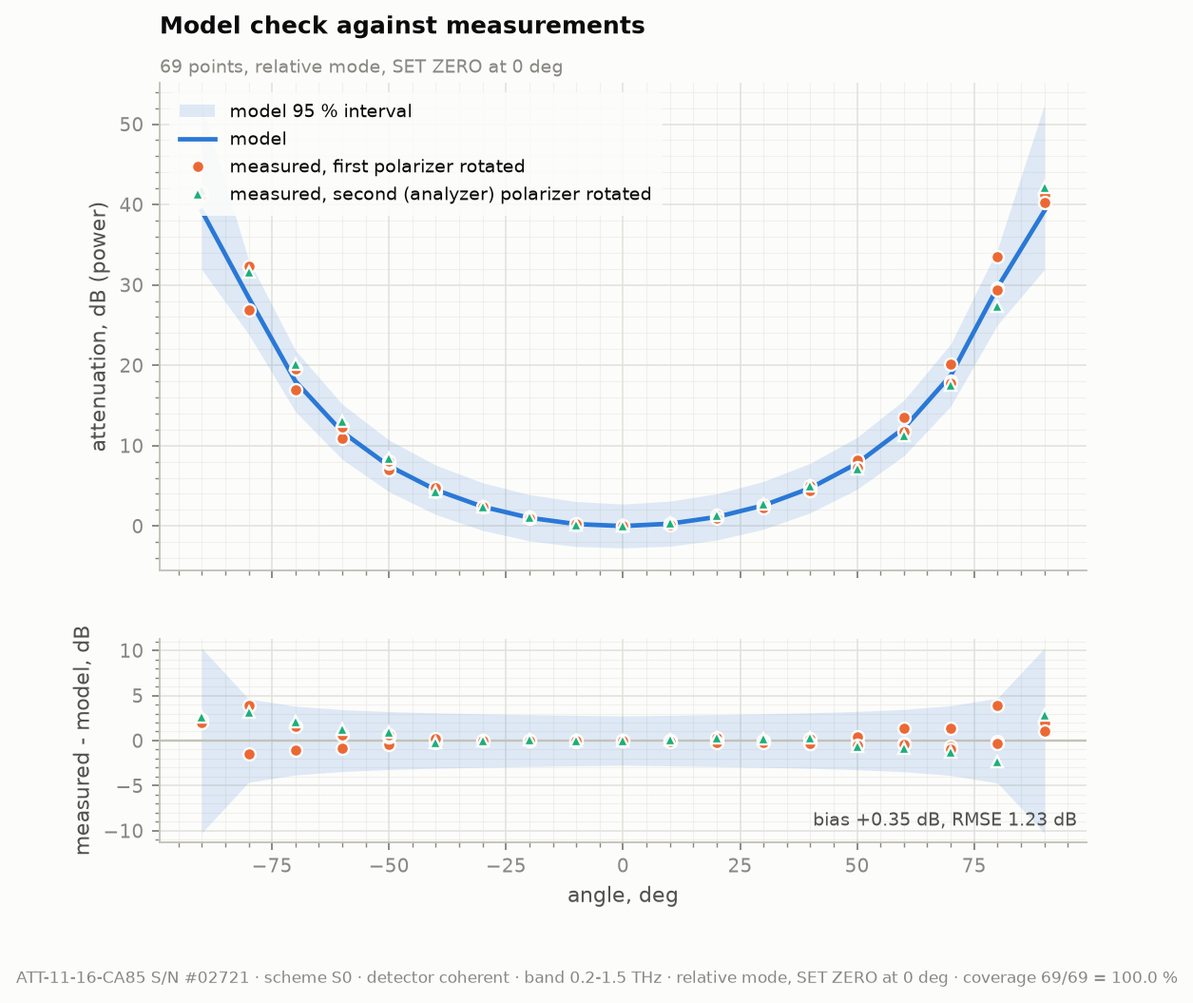
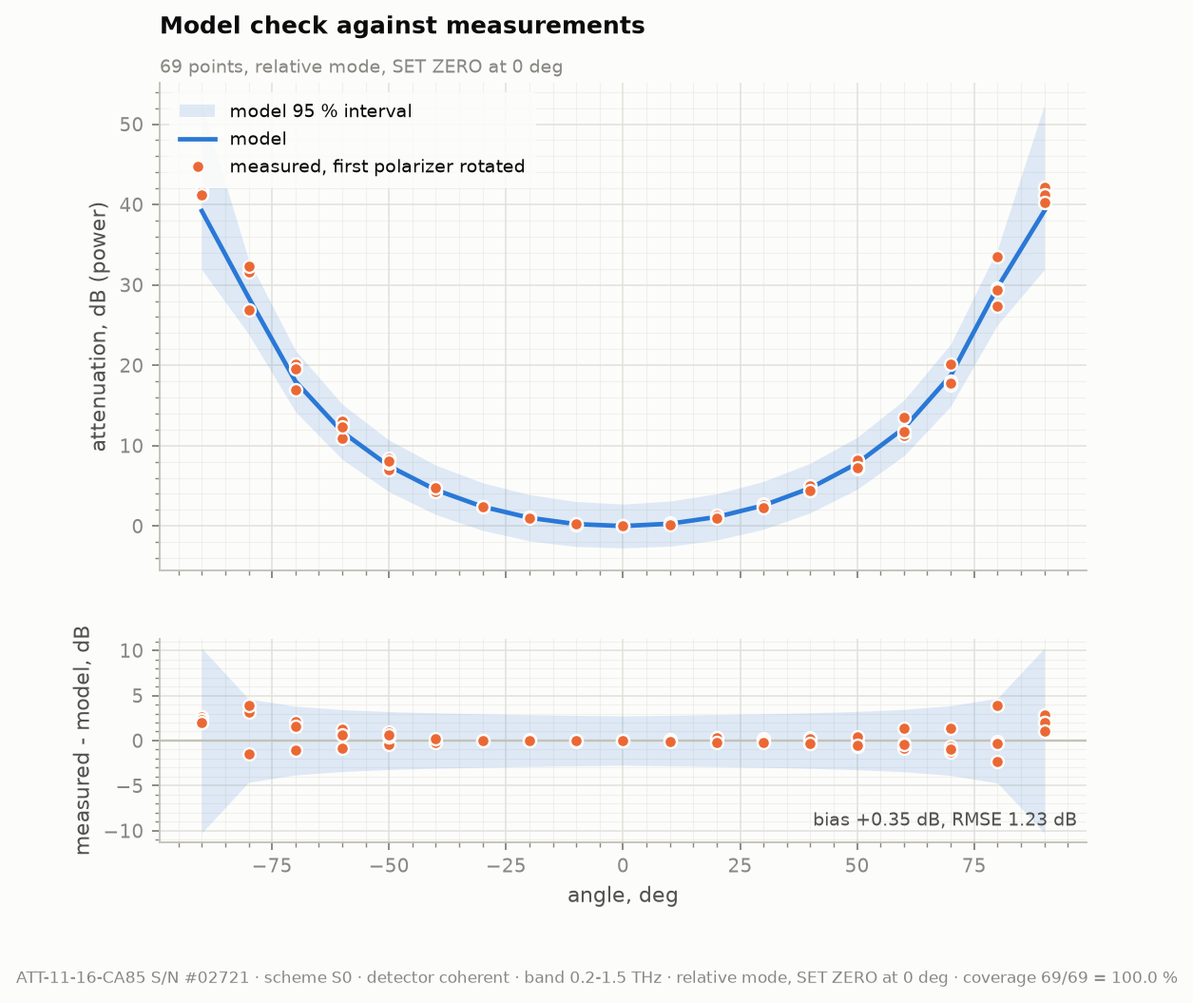
[C] Закрытие чата C1: передача роли + починка валидатора после переименования данных
Валидатор зоны C был сломан с 2026-08-04 и молчал об этом. Переименование
356att/series* -> att-11-16-* (коммит eda293e) прошло по словарю ROTATES внутри
tools/validate.py, но не по умолчанию --datasets и не по префиксам групп: скрипт
искал файлы по старым именам, находил ноль, печатал "no data for validation" и
выходил с кодом 0 - внешне неотличимо от успеха. Это второй случай той же формы
подряд (первый - реорганизация data_pool в подкаталоги 28.07, glob -> rglob).

После починки числа воспроизвелись бит-в-бит, то есть переименование физику не
затронуло и запрос A "C: прошу прогнать свой валидатор" закрыт:
  selftest 13/13
  validate 69/69 = 100 % покрытия 95 % интервала
           смещение +0.35 дБ, RMSE 1.23 дБ (паспортная 1.39)
           вращался второй +0.46 / первый +0.31 -> разница +0.15 дБ (закон Малюса)
           запас интервала x1.67

Защита от повторения: случай "файлов не найдено вообще" отделён от "мало углов" и
печатается явно, main() возвращает код 1.

Win7-комплект и распечатанный чек-лист ред.2 намеренно НЕ синхронизированы - они
согласованы между собой на старых именах и ждут приёмки владельцем; в чек-лист
внесено предупреждение об этом расхождении.

Передача роли - attenuator_app/HANDOFF_C_20260807.md. Открыта одна задача,
C6_v02_acceptance, и она ждёт владельца (release gate: ни одна версия не выпущена).

Session: C
Reason: штатное закрытие чата C1 с передачей дел; попутно устранён тихий отказ
[…]

Changed region(s): [[0.1554, 0.182, 0.5594, 0.2123], [0.8701, 0.6976, 0.9012, 0.728], [0.8701, 0.182, 0.9012, 0.2123]]

diff --git a/attenuator_app/tools/validate.py b/attenuator_app/tools/validate.py
@@ -9,16 +9,17 @@
 где U = интеграл |E(nu)|^2 по рабочей полосе (Парсеваль). Деление на фон снимает
 дрейф лазера между точками — иначе он маскирует проверку.
 
-Данные: один и тот же прибор, шесть сеансов.
-    356att      — вращался ВТОРОЙ поляризатор (ближний к детектору, анализатор)
-    series1..5  — вращался ПЕРВЫЙ поляризатор
+Данные: один и тот же прибор, шесть сеансов (имена с 2026-08-04, переименование A).
+    att-11-16-356       — вращался ВТОРОЙ поляризатор (ближний к детектору, анализатор)
+    att-11-16-s1..s3    — вращался ПЕРВЫЙ поляризатор
+    att-11-16-s4/s5-artifact — по одному углу, пропускаются
 По закону Малюса затухание зависит только от относительного угла, поэтому оба
 набора должны ложиться на одну кривую. Расхождение между группами — прямая
 проверка этого утверждения на железе.
 
 Запуск:
     .venv\\Scripts\\python.exe -m attenuator_app.tools.validate
-    ... --passport <файл> --band 0.2 1.5 --datasets 356att,series1
+    ... --passport <файл> --band 0.2 1.5 --datasets att-11-16-356,att-11-16-s1
 """
 from __future__ import annotations
 
@@ -91,8 +92,16 @@ def run(passport_path, band, datasets, verbose=True):
     rows, tot_in, tot_n = [], 0, 0
     for ds in datasets:
         meas = measured(ds, f1, f2)
+        if not meas:
+            # отдельная ветка: ноль НАЙДЕННЫХ файлов — это почти всегда переименование или
+            # перенос data_pool чужой сессией, а не свойство данных. Раньше этот случай
+            # сливался с «мало углов» и читался как безобидный пропуск
+            print(f"  {ds}: NO FILES FOUND under {DATA} "
+                  f"(pattern {ds}_*deg_rep*_sig.txt) -- renamed or moved?")
+            continue
         if 0.0 not in meas or len(meas) < 3:
-            print(f"  {ds}: skipped (no 0 deg reference point or too few angles)")
+            print(f"  {ds}: skipped ({len(meas)} angles found, but no 0 deg reference point "
+                  f"or too few angles)")
             continue
         ref = meas[0.0]
         angles = sorted(meas)
@@ -130,7 +139,8 @@ def run(passport_path, band, datasets, verbose=True):
 
     # разбивка по тому, какой поляризатор вращался — проверка закона Малюса на железе
     groups = {}
-    for grp, name in (("att-11-16-356", "second (analyzer)"), ("series", "first")):
+    # префиксы disjoint: "att-11-16-356" vs "att-11-16-s1..s5" (после переименования 2026-08-04)
+    for grp, name in (("att-11-16-356", "second (analyzer)"), ("att-11-16-s", "first")):
         sel = [r for r in rows if r[0].startswith(grp)]
         if not sel:
             continue
@@ -140,7 +150,7 @@ def run(passport_path, band, datasets, verbose=True):
         print(f"  {name:<20} rotated: {n_in_g}/{len(sel)} = {100*n_in_g/len(sel):3.0f} %, "
               f"bias {d.mean():+.2f} dB, RMSE {np.sqrt((d**2).mean()):.2f} dB")
     if len(groups) == 2:
-        a, b = groups["att-11-16-356"], groups["series"]
+        a, b = groups["att-11-16-356"], groups["att-11-16-s"]
         print(f"  -> bias difference between groups {a.mean()-b.mean():+.2f} dB "
               f"(Malus law: attenuation must not depend on "
               f"which polarizer is rotated)")
@@ -180,10 +190,13 @@ def main():
     ap.add_argument("--passport",
                     default=str(HERE.parent / "passports" / "ATT-11-16-CA85_02721.json"))
     ap.add_argument("--band", nargs=2, type=float, default=[0.2, 1.5])
-    ap.add_argument("--datasets", default="356att,series1,series2,series3,series4,series5")
+    ap.add_argument("--datasets", default="att-11-16-356,att-11-16-s1,att-11-16-s2,"
+                                          "att-11-16-s3,att-11-16-s4-artifact,att-11-16-s5-artifact")
     ap.add_argument("--quiet", action="store_true")
     a = ap.parse_args()
-    run(a.passport, a.band, [d for d in a.datasets.split(",") if d], verbose=not a.quiet)
+    rows = run(a.passport, a.band, [d for d in a.datasets.split(",") if d], verbose=not a.quiet)
+    # код возврата обязателен: без него «нет данных» уходит с кодом 0 и выглядит как успех
+    sys.exit(1 if rows == 1 else 0)
 
 
 if __name__ == "__main__":

diff --git a/attenuator_app/HANDOFF_C_20260807.md b/attenuator_app/HANDOFF_C_20260807.md
@@ -1,0 +1,131 @@
+# Передача роли C — состояние на закрытие чата C1 (2026-08-07)
+
+Читать целиком перед первым действием. Чат `C1` (`f8241c1b-…`) закрыт владельцем; следующий чат
+под ролью C берёт ник **C2** (`coordination/NICKS.md`, правило 1). Оговорка реестра: работа C с
+2026-07-28 18:30 по 21:55 шла в **Cursor**, отдельным ником не регистрировалась и записана
+примечанием в строке C1 — поэтому следующий свободный номер именно C2, а не C3.
+
+Ниже — только то, что нельзя восстановить из кода и логов за разумное время. Полное состояние
+зоны — `attenuator_app/STATE.md`, документация — `docs/attenuator_app/` (8 файлов).
+
+---
+
+## 1. ⚠ ПЕРВОЕ: работа ЖДЁТ ВЛАДЕЛЬЦА — ничего не разрабатывать
+
+Действует **release gate** (указание владельца от 2026-07-28 18:51): ни одна версия не считается
+выпущенной и никому не передаётся, пока владелец лично ею не воспользовался и не дал явное добро.
+Автотесты — необходимое, но не достаточное условие.
+
+**Единственная открытая задача — `C6_v02_acceptance`:** прогон владельца по распечатанному
+чек-листу ред.2 на Win7-ПК у спектрометра и сбор обратной связи. До этого **не начинать** C3 (веб),
+C4 (драйверы ротаторов), C5 (`peak_field`) — иначе к неодобренной версии нарастёт слой изменений,
+и замечания владельца придётся вносить дважды.
+
+Прибор ATT-11-16-CA85 S/N #02721 **продан и уехал в Китай** — отсюда английский интерфейс
+(решение владельца, Win7-ПК не работает с кириллицей). Формулировку «приложение обслуживает
+проданный прибор» владелец снял как неверную: релизов не было.
+
+---
+
+## 2. ⚠ ВТОРОЕ: чужие переименования дважды ломали валидатор — и оба раза МОЛЧА
+
+Это главный урок зоны C, и он повторился.
+
+| Когда | Что сделала другая сессия | Как сломалось |
+|---|---|---|
+| 2026-07-28 | реорганизация `data_pool/` в подкаталоги (A/ORCH) | нерекурсивный `glob` нашёл 0 файлов → «нет данных» вместо падения. Исправлено на `rglob` |
+| 2026-08-04 | переименование `356att`/`series1..5` → `att-11-16-*` (A, коммит `eda293e`) | переименование прошло по `ROTATES`, но **не по умолчанию `--datasets`** и не по префиксам групп → снова 0 файлов, снова текст «no data for validation», **код возврата 0** |
+
+Второй случай пролежал незамеченным с 04 по 07 августа, хотя A прямо просила: «C: прошу прогнать
+свой валидатор» (`BOARD.md`, строка A). Просьба не была исполнена, потому что чат C в это время
+не работал.
+
+**Сегодня исправлено и проверено. Числа воспроизвелись бит-в-бит** — переименование не тронуло
+физику:
+
+```
+selftest   13/13
+validate   69/69 = 100 % покрытия 95 % интервала
+           смещение +0.35 дБ, RMSE 1.23 дБ (паспортная 1.39)
+           вращался второй +0.46 / первый +0.31 -> разница +0.15 дБ (закон Малюса)
+           запас интервала x1.67
+```
+
+⇒ **запрос A к C закрыт**: валидатор прогнан, расхождений нет.
+
+Заодно в `tools/validate.py` поставлена защита от тихого нуля: случай «файлов не найдено вообще»
+отделён от «мало углов» и печатается как `NO FILES FOUND … renamed or moved?`, а `main()` теперь
+**возвращает код 1** — раньше «нет данных» уходило с кодом 0 и в любом скрипте читалось как успех.
+
+> **Правило для C2, первое действие сессии:** прогнать `selftest` и `validate` и посмотреть на
+> **код возврата**, а не только на текст. Зона C зависит от расположения и имён файлов в
+> `data_pool/**`, который ей не принадлежит и меняется без предупреждения.
+
+---
+
+## 3. ⚠ ТРЕТЬЕ: Win7-комплект заморожен на СТАРЫХ именах — не синхронизировать
+
+`../win7_attenuator_kit` (вне репозитория, ~78 МБ) собран 2026-07-28, **до** переименования, и
+содержит собственные копии данных `356att_*`, свою копию `attenuator_app/` и чек-лист. Он
+**внутренне согласован** с распечатанной ред.2, которую владелец повезёт к спектрометру.
+
+Поэтому: **не приводить комплект к именам репозитория до приёмки.** Если комплект когда-нибудь
+пересобирается — пересобирать разом все три части: данные, код, чек-лист. В `07_ACCEPTANCE_
+CHECKLIST_v0.2.txt` рядом с шагом D.1 поставлено предупреждение об этом расхождении.
+
+---
+
+## 4. Техническое состояние на момент закрытия
+
+- **Ветка `session/C` полностью влита в `main`** (`713f807` — предок `main`, проверено
+  `git merge-base --is-ancestor`). Ничего не потеряно, мержить нечего.
+- **Worktree `../TUO-C` чист, но отстал от `main` на 57 коммитов.** Работать в нём, не обновив,
+  значит работать по данным и именам ДО переименования — то есть воспроизвести дефект из §2.
+  Перед работой либо обновить (`git -C ../TUO-C merge main`), либо снести worktree и работать
+  прямо на `main`: зона C с `main` не конфликтует, а изоляция ценой рассинхронизации данных
+  здесь дороже, чем даёт.
+- Рантайм приложения зависит **только от numpy**; `matplotlib` опционален (без него — ASCII).
+  Это сознательное решение: приложение должно запускаться у покупателя без научного стека.
+
+## 5. Два решения, которые нельзя потерять
+
+1. **Относительный режим — по умолчанию, и это физика, а не удобство.** При SET ZERO общий
+   множитель потерь `ℓ(ν)` и вносимое затухание `|t⊥|⁴` сокращаются тождественно (`|dA| = 1.8e-15`
+   дБ при изменении `loss`/`gamma`). Следствие: хуже всех определённый параметр `gamma` из
+   относительного режима **выпадает**, поэтому экстраполяция за полосу калибровки в нём на порядок
+   надёжнее абсолютного режима.
+2. **Неопределённость — по разбросу МЕЖДУ СЕАНСАМИ, а не по ковариации одного фита.** Разброс
+   между сеансами шире паспортного 95 % CI в 3–27 раз по всем трём подгоняемым параметрам.
+   Паспортный интервал получен на отфильтрованном по дрейфу ансамбле и оптимистичен для
+   повседневной работы, где прибор переставляют и заново юстируют. Валидация выбор подтвердила:
+   69/69 при запасе ×1.67.
+
+Обоснования и 6 допущений, требующих подтверждения владельцем, — `STATE.md`.
+
+## 6. Открытое
+
+**К владельцу** (`STATE.md` §«Открытые вопросы»): шаг/люфт ротаторов (до этого обратная задача не
+может быть «честной»); тип детектора по умолчанию для операторского сценария; разграничение
+A4 ↔ `attenuator_app/core`.
+
+**К Сессии A** — запрос в `HANDOFFS.md`, статус `open`: в репозитории **две независимые реализации**
+расчёта затухания (`research/two_wgp/` A4 и `attenuator_app/core/`). Предложено развести по
+назначению — A4 физический эталон, `core` продуктовый расчёт, — а задачу `C2` понимать как
+**сверку** двух калькуляторов, а не интеграцию. Порог тревоги: расхождение больше паспортной
+RMSE 1.39 дБ. Это приёмочная проверка для обеих сессий, а не зависимость: **C никогда не была
+заблокирована на A4**, вопреки записи «до готовности A4 запуск C преждевременен».
+
+**Косметические хвосты переименования** (не ломают работу, руки не дошли): старые имена сеансов
+остались в `passports/…json → calibration_note`, `docs/attenuator_app/03_OPTICAL_SCHEMES.md`,
+`06_ROADMAP_AND_LITERATURE.md`. Паспорт трогать осторожно — это калибровочный артефакт.
+
+**Долг вне зоны C** (не наш, только фиксируем): `research/papers/INDEX.md` не содержит
+`JOSA.67.000979.pdf` (Costley 1977) — 20 PDF, проиндексировано 19. Зона ORCH/L.
+
+## 7. Честно о ценности этого документа
+
+Уникального знания в закрываемом чате не осталось: всё, что C1 узнал, лежит на диске —
+`STATE.md`, `coordination/sessions/C.md`, записи в `ACTIVITY.md` и `HANDOFFS.md`, запись `[C]` в
+`research/logs/RESEARCH_LOG.md`, 8 документов `docs/attenuator_app/`. Этот файл — сводка входа,
+а не новые сведения. Единственное, что появилось именно сегодня, — §2: сломанный и починенный
+валидатор с воспроизведёнными числами.

diff --git a/coordination/sessions/C.md b/coordination/sessions/C.md
@@ -3,7 +3,8 @@
 > Обновляй при СТАРТЕ, смене задачи, «пульсе» и остановке. Перед правкой ОБЩЕГО файла — проверь
 > чужие sessions/*.md на пересечение. Устаревший heartbeat (>~1ч) = сессия считается неактивной.
 
-- **Статус:** idle (замок не держу)
+- **Статус:** stopped — чат **C1** закрыт владельцем 2026-08-07; лок свободен. Следующий чат под
+  ролью C берёт ник **C2**. **➜ ЧИТАТЬ ПЕРВЫМ: `attenuator_app/HANDOFF_C_20260807.md`**
 - **Специализация:** приложение-прототип attenuator_app (CHARTER §3 / OWNERSHIP.md)
 - **Текущая задача:** C6_v02_acceptance — ждём прогон владельца по гайду и обратную связь;
   release gate введён (ни одна версия не одобрена, релизов не было)
@@ -11,7 +12,9 @@
   `attenuator_app/STATE.md` (в worktree); читать `research/two_wgp/` — не править; физика/ядро → HANDOFFS к A/B
 - **Файлы, что трогаю (замок):** нет активного замка. Зона: `attenuator_app/**`, `docs/attenuator_app/**`
 - **Заявлено до (время):** —
-- **Heartbeat:** 2026-07-28 21:55 (UI переведён на английский — прибор в Китае, решение
+- **Heartbeat:** 2026-08-07 (закрытие чата C1; валидатор зоны C починен после переименования
+  данных A, числа воспроизведены бит-в-бит; передача дел записана)
+- **Предыдущий heartbeat:** 2026-07-28 21:55 (UI переведён на английский — прибор в Китае, решение
   владельца; коммит `713f807` в `session/C`; физика бит-в-бит; чек-лист ред.2 распечатан;
   Win7-комплект `../win7_attenuator_kit` пересобран с EN-интерфейсом и EN-README)
 
@@ -46,6 +49,16 @@
   69/69 = 100 %, RMSE 1.23 дБ); зона C закоммичена на main (`3e4cd24`) — C-часть флага ORCH снята;
   создан worktree `../TUO-C` (`session/C`), там же закоммичен обновлённый STATE.md (`2d84261`).
   **Для ORCH:** ветка `session/C` готова к мержу в любой момент; дальнейшие правки C — только в worktree.
+- [2026-08-07] **Закрытие чата C1, штатное освобождение лока.** Передача роли —
+  `attenuator_app/HANDOFF_C_20260807.md`. Итог последнего прохода: **валидатор зоны C был сломан
+  с 04.08 и молчал об этом.** Переименование данных Сессией A (`eda293e`) прошло по `ROTATES`
+  внутри `tools/validate.py`, но не по умолчанию `--datasets` и не по префиксам групп ⇒ 0 найденных
+  файлов, текст «no data for validation», код возврата 0. Починено; числа воспроизвелись бит-в-бит
+  (13/13; 69/69 = 100 %, +0.35 дБ, RMSE 1.23, разница групп +0.15 дБ, запас ×1.67) ⇒ **переименование
+  физику не затронуло, запрос A к C закрыт.** Добавлена защита: «файлов не найдено» отделено от
+  «мало углов», `main()` возвращает 1. Ветка `session/C` **полностью влита в main** (`713f807` —
+  предок main), worktree `../TUO-C` чист, но отстал на 57 коммитов — работать в нём без обновления
+  нельзя, иначе повторится тот же дефект. Задача C6 (приёмка v0.2 владельцем) не двигалась.
 - [2026-07-28 19:05] Указание владельца: релизов НЕ было, «в эксплуатации» — ошибка записи;
   введён release gate (флаги одобрения по версиям) — `session/C` коммит `4da44b3`, задача
   C6_v02_acceptance. Отревьюирован операторский гайд незарегистрированной сессии: команды/файлы

diff --git a/attenuator_app/README.md b/attenuator_app/README.md
@@ -31,7 +31,7 @@ att> solve 20               какой угол даёт 20 дБ
 att> check 20               проверки применимости F0..F8
 att> curve 10               угловая кривая рядом с идеальной cos^4
 att> spec 60                спектр + зоны + поляризация выхода
-att> bg data_pool/two_wgp_attenuator/356att_0deg_rep1_bg.txt   фон -> динамический диапазон
+att> bg data_pool/two_wgp_attenuator/att-11-16-356_0deg_rep1_bg.txt   фон -> динамич. диапазон
 att> sweep 3,6,10,20,30     развёртка уровней
 att> plan 20                инструкция оператору
 ```
@@ -73,11 +73,11 @@ RMSE модели 1.39 дБ (паспортная, до -45 дБ)
 `tools/validate.py` — шесть сеансов одного прибора, относительный режим, SET ZERO на 0°:
 
 ```
-356att      19/19 = 100 %      (вращался ВТОРОЙ поляризатор)
-series1     19/19 = 100 %      (вращался ПЕРВЫЙ)
-series2     19/19 = 100 %
-series3     12/12 = 100 %
-series4,5   пропущены (по одному углу)
+att-11-16-356   19/19 = 100 %      (вращался ВТОРОЙ поляризатор)
+att-11-16-s1    19/19 = 100 %      (вращался ПЕРВЫЙ)
+att-11-16-s2    19/19 = 100 %
+att-11-16-s3    12/12 = 100 %
+att-11-16-s4/s5-artifact   пропущены (по одному углу)
 
 ИТОГО покрытие 95 % интервала: 69/69 = 100.0 %
 смещение (изм - модель): +0.35 дБ, RMSE 1.23 дБ
